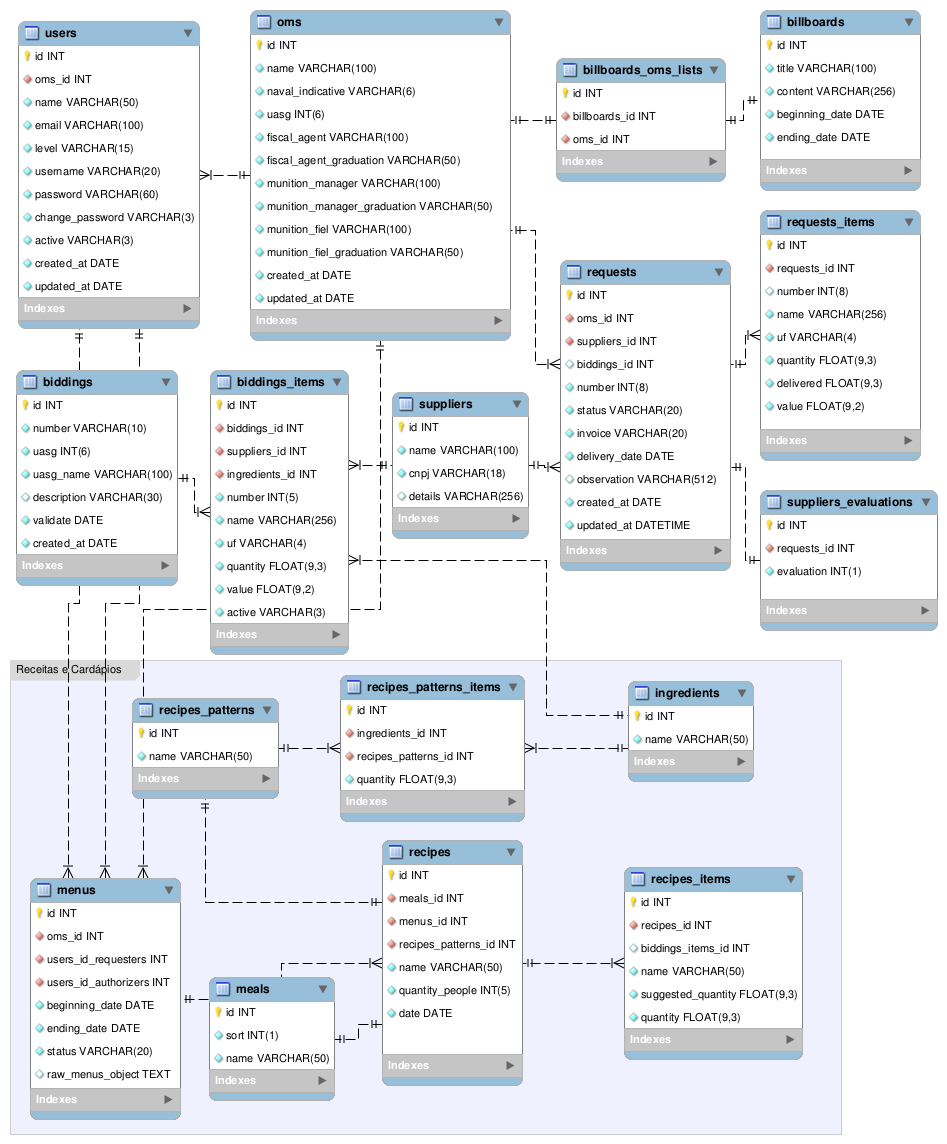
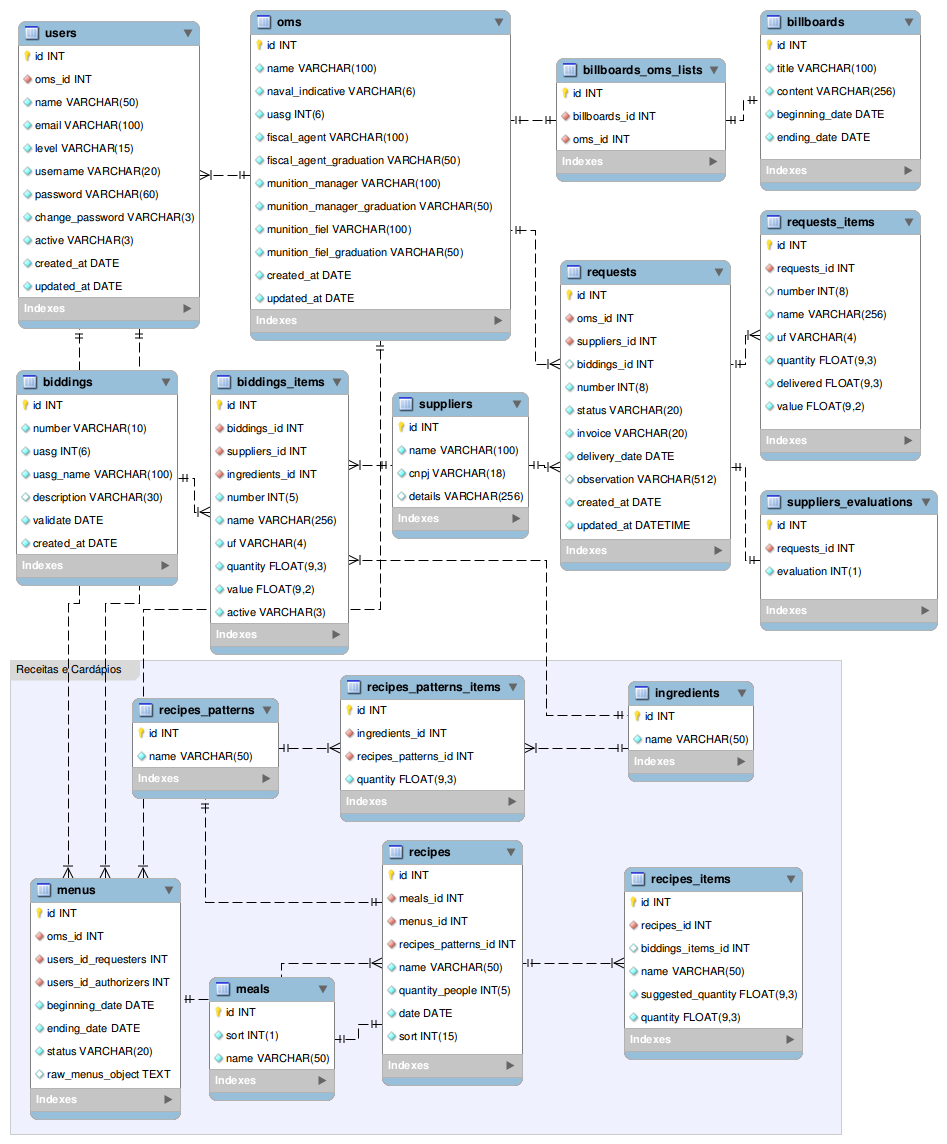
Last modifications

diff --git a/App/Controllers/CardapioController.php b/App/Controllers/CardapioController.php
@@ -34,7 +34,7 @@ class CardapioController extends Controller implements CtrlInterface
 
     public function novoAction()
     {
-        $this->view->userLoggedIn = $this->access->authenticAccess(['ADMINISTRADOR', 'CONTROLADOR', 'ENCARREGADO', 'NORMAL']);
+        $this->view->userLoggedIn = $this->access->authenticAccess(['ADMINISTRADOR', 'ENCARREGADO', 'NORMAL']);
         $this->view->title = 'Novo Registro';
         $modelOms = new OmModel();
         $modelMeals = new MealsModel();
@@ -47,7 +47,7 @@ class CardapioController extends Controller implements CtrlInterface
 
     public function detalharAction()
     {
-        $this->view->userLoggedIn = $this->access->authenticAccess(['ADMINISTRADOR', 'CONTROLADOR', 'ENCARREGADO', 'NORMAL']);
+        $this->view->userLoggedIn = $this->access->authenticAccess(['ADMINISTRADOR', 'ENCARREGADO', 'NORMAL']);
         $model = new CardapioModel();
         $this->view->title = 'Detalhes do cardápio';
         $this->view->result = $model->findById($this->getParametro('id'));
@@ -57,7 +57,7 @@ class CardapioController extends Controller implements CtrlInterface
 
     public function detalharItemsAction()
     {
-        $this->view->userLoggedIn = $this->access->authenticAccess(['ADMINISTRADOR', 'CONTROLADOR', 'ENCARREGADO', 'NORMAL']);
+        $this->view->userLoggedIn = $this->access->authenticAccess(['ADMINISTRADOR', 'ENCARREGADO', 'NORMAL']);
         $model = new RecipesItemsModel();
         $this->view->title = 'Detalhes dos ingredientes';
         $this->view->result = $model->findByRecipe($this->getParametro('idRecipes'));
@@ -66,7 +66,7 @@ class CardapioController extends Controller implements CtrlInterface
 
     public function editarRecipesAction()
     {
-        $this->view->userLoggedIn = $this->access->authenticAccess(['ADMINISTRADOR', 'CONTROLADOR', 'ENCARREGADO', 'NORMAL']);
+        $this->view->userLoggedIn = $this->access->authenticAccess(['ADMINISTRADOR', 'ENCARREGADO', 'NORMAL']);
         $this->view->title = 'Editar receita';
         $modelMeals = new MealsModel();
         $modelRecipes = new RecipesPatternsModel();
@@ -78,7 +78,7 @@ class CardapioController extends Controller implements CtrlInterface
 
     public function editarIngredientesAction()
     {
-        $this->view->userLoggedIn = $this->access->authenticAccess(['ADMINISTRADOR', 'CONTROLADOR', 'ENCARREGADO', 'NORMAL']);
+        $this->view->userLoggedIn = $this->access->authenticAccess(['ADMINISTRADOR', 'ENCARREGADO', 'NORMAL']);
         $this->view->title = 'Editar itens do cardápio';
         $this->view->result = (new RecipesItemsModel())->findById($this->getParametro('itemId'));
         $this->render('form_editar_items');
@@ -86,28 +86,28 @@ class CardapioController extends Controller implements CtrlInterface
 
     public function alteraMenuDaysAction()
     {
-        $this->view->userLoggedIn = $this->access->authenticAccess(['ADMINISTRADOR', 'CONTROLADOR', 'ENCARREGADO', 'NORMAL']);
+        $this->view->userLoggedIn = $this->access->authenticAccess(['ADMINISTRADOR', 'ENCARREGADO', 'NORMAL']);
         $model = new CardapioModel();
         $model->atualizaDataCardapio();
     }
 
     public function eliminarMenuAction()
     {
-        $this->view->userLoggedIn = $this->access->authenticAccess(['ADMINISTRADOR', 'CONTROLADOR', 'ENCARREGADO', 'NORMAL']);
+        $this->view->userLoggedIn = $this->access->authenticAccess(['ADMINISTRADOR', 'ENCARREGADO', 'NORMAL']);
         $model = new CardapioModel();
         $model->removerMenu($this->getParametro('id'));
     }
 
     public function eliminarAction()
     {
-        $this->view->userLoggedIn = $this->access->authenticAccess(['ADMINISTRADOR', 'CONTROLADOR', 'ENCARREGADO', 'NORMAL']);
+        $this->view->userLoggedIn = $this->access->authenticAccess(['ADMINISTRADOR', 'ENCARREGADO', 'NORMAL']);
         $model = new CardapioModel();
         $model->removerRegistro($this->getParametro('id'), $this->getParametro('menusId'));
     }
 
     public function verAction()
     {
-        $this->view->userLoggedIn = $this->access->authenticAccess(['ADMINISTRADOR', 'CONTROLADOR', 'ENCARREGADO', 'NORMAL']);
+        $this->view->userLoggedIn = $this->access->authenticAccess(['ADMINISTRADOR', 'ENCARREGADO', 'NORMAL']);
         $model = new CardapioModel();
         $this->view->title = 'Lista de Todos os Cardápios';
         $model->paginator($this->getParametro('pagina'));
@@ -118,7 +118,7 @@ class CardapioController extends Controller implements CtrlInterface
     
     public function itensNaoLicitadosAction()
     {
-        $this->view->userLoggedIn = $this->access->authenticAccess(['ADMINISTRADOR', 'CONTROLADOR', 'ENCARREGADO', 'NORMAL']);
+        $this->view->userLoggedIn = $this->access->authenticAccess(['ADMINISTRADOR', 'ENCARREGADO', 'NORMAL']);
         $solicitacaoModel = new SolicitacaoModel();
         $this->view->title = 'Forncedores e itens não encontrados';
         $this->view->result = $solicitacaoModel->requestItemsNaoLicitadosByMenu($this->getParametro('id'));
@@ -129,7 +129,7 @@ class CardapioController extends Controller implements CtrlInterface
     {
         $this->view->userLoggedIn = $this->access->setRedirect('cardapio/')
             ->clearAccessList()
-            ->authenticAccess(['ADMINISTRADOR', 'CONTROLADOR', 'ENCARREGADO', 'NORMAL']);
+            ->authenticAccess(['ADMINISTRADOR', 'ENCARREGADO', 'NORMAL']);
 
         $id = $this->getParametro('id');
         $pdf = new Pdf();
@@ -142,27 +142,27 @@ class CardapioController extends Controller implements CtrlInterface
     {
         $model = new CardapioModel();
         $this->view->title = 'Cardápio semanal';
-        $this->view->result = $model->retornsDataFromMenus(intval($this->getParametro('id')));
+        $this->view->result = $model->returnsDataFromMenus(intval($this->getParametro('id')));
         $this->render('relatorio_cardapio', true, 'blank');
     }
 
     public function registraAction()
     {
-        $user = $this->access->authenticAccess(['ADMINISTRADOR', 'CONTROLADOR']);
+        $user = $this->access->authenticAccess(['ADMINISTRADOR', 'ENCARREGADO', 'NORMAL']);
         $model = new CardapioModel();
         $model->novoRegistro($user);
     }
 
     public function aprovarAction()
     {
-        $user = $this->access->authenticAccess(['ADMINISTRADOR', 'CONTROLADOR']);
+        $user = $this->access->authenticAccess(['ADMINISTRADOR', 'ENCARREGADO']);
         $model = new CardapioModel();
         $model->aprovar($this->getParametro('id'), $user);
     }
 
     public function gerarSolicitacoesAction()
     {
-        $this->view->userLoggedIn = $this->access->authenticAccess(['ADMINISTRADOR', 'CONTROLADOR']);
+        $this->view->userLoggedIn = $this->access->authenticAccess(['ADMINISTRADOR', 'ENCARREGADO', 'NORMAL']);
         $requestsNumbers = (new SolicitacaoModel())->gerarSolicitacoes($this->getParametro('id'));
         $this->view->urlRedirect = cfg::DEFAULT_URI . "solicitacao/ver";
 
@@ -177,28 +177,28 @@ class CardapioController extends Controller implements CtrlInterface
 
     public function alteraAction()
     {
-        $this->view->userLoggedIn = $this->access->authenticAccess(['ADMINISTRADOR', 'CONTROLADOR', 'ENCARREGADO', 'NORMAL']);
+        $this->view->userLoggedIn = $this->access->authenticAccess(['ADMINISTRADOR', 'ENCARREGADO', 'NORMAL']);
         $model = new CardapioModel();
         $model->editarRegistro();
     }
 
     public function alteraRecipesAction()
     {
-        $this->view->userLoggedIn = $this->access->authenticAccess(['ADMINISTRADOR', 'CONTROLADOR', 'ENCARREGADO', 'NORMAL']);
+        $this->view->userLoggedIn = $this->access->authenticAccess(['ADMINISTRADOR', 'ENCARREGADO', 'NORMAL']);
         $model = new RecipesModel();
         $model->editarRegistro();
     }
 
     public function alteraItemsAction()
     {
-        $this->view->userLoggedIn = $this->access->authenticAccess(['ADMINISTRADOR', 'CONTROLADOR', 'ENCARREGADO', 'NORMAL']);
+        $this->view->userLoggedIn = $this->access->authenticAccess(['ADMINISTRADOR', 'ENCARREGADO', 'NORMAL']);
         $model = new RecipesItemsModel();
         $model->editarRegistro();
     }
 
     public function checkdateAction()
     {
-        $user = $this->access->authenticAccess(['ADMINISTRADOR', 'CONTROLADOR', 'ENCARREGADO', 'NORMAL']);
+        $user = $this->access->authenticAccess(['ADMINISTRADOR', 'ENCARREGADO', 'NORMAL']);
         $omId = intval($user['oms_id'] ?? 0);
         $result = (new CardapioModel())->checkDate($this->getParametro('value'), $omId);
         echo json_encode($result);

diff --git a/App/Models/SolicitacaoModel.php b/App/Models/SolicitacaoModel.php
@@ -246,10 +246,11 @@ class SolicitacaoModel extends CRUD
             $andExists = isset($dados['where']) ? 'AND' : '';
             $dados['where'] = ($dados['where'] ?? "") . " {$andExists} ( "
                 . 'sol.status LIKE :search '
-                . 'OR sol.number LIKE :search '
-                . 'OR sol.created_at BETWEEN :dInit AND :dEnd '
-                . 'OR sol.updated_at BETWEEN :dInit AND :dEnd '
-                . 'OR sol.delivery_date LIKE :search '
+                . ' OR sol.number LIKE :search '
+                . ' OR oms.naval_indicative LIKE :search '
+                . ' OR sol.created_at BETWEEN :dInit AND :dEnd '
+                . ' OR sol.updated_at BETWEEN :dInit AND :dEnd '
+                . ' OR sol.delivery_date LIKE :search '
                 . ') ';
 
             $bindValue = [
@@ -488,7 +489,7 @@ class SolicitacaoModel extends CRUD
                         'status' => 'ABERTO',
                         'created_at' => date('Y-m-d'),
                         'updated_at' => date('Y-m-d H:i:s'),
-                        'delivery_date' => $values['date']
+                        'delivery_date' => date('Y-m-d', strtotime($values['date']) - (5 * 86400))
                     ];
                     $numbers[] = $dados['number'];
     

diff --git a/App/Models/RecipesModel.php b/App/Models/RecipesModel.php
@@ -79,6 +79,7 @@ class RecipesModel extends CRUD
                     'recipesPatternsId' => $recipes['recipesPatternsId'],
                     'name' => trim($recipes['name']),
                     'quantity' => $recipes['quantity'],
+                    'sort' => $recipes['sort'],
                     'items' => $this->buildItemsRecipes($recipes['items'])
                 ];
             }
@@ -114,7 +115,8 @@ class RecipesModel extends CRUD
             . "     ON B.id = A.meals_id "
             . " INNER JOIN recipes_patterns AS C "
             . "     ON C.id = A.recipes_patterns_id "
-            . " WHERE A.menus_id = :menusId ";
+            . " WHERE A.menus_id = :menusId "
+            . "ORDER BY A.date, B.sort";
         $stmt = $this->pdo->prepare($query);
         $stmt->execute([':menusId' => $menusId]);
         return $stmt->fetchAll(\PDO::FETCH_ASSOC);

diff --git a/App/Models/CardapioModel.php b/App/Models/CardapioModel.php
@@ -199,7 +199,7 @@ class CardapioModel extends CRUD
      * @param int $id
      * @return array
      */
-    public function retornsDataFromMenus(int $id): array
+    public function returnsDataFromMenus(int $id): array
     {
         $query = ""
             . " SELECT "
@@ -222,8 +222,7 @@ class CardapioModel extends CRUD
             . "        INNER JOIN oms ON oms.id = mn.oms_id "
             . " WHERE "
             . "    mn.id = {$id}  "
-            . "    AND mn.status IN ( 'GERADO' , 'APROVADO') "
-            . " ORDER BY rcp.date, mls.sort, mn.id; ";
+            . " ORDER BY rcp.date, mls.sort, rcp.sort, mn.id; ";
         return $this->pdo->query($query)->fetchAll(\PDO::FETCH_ASSOC);
     }
 
